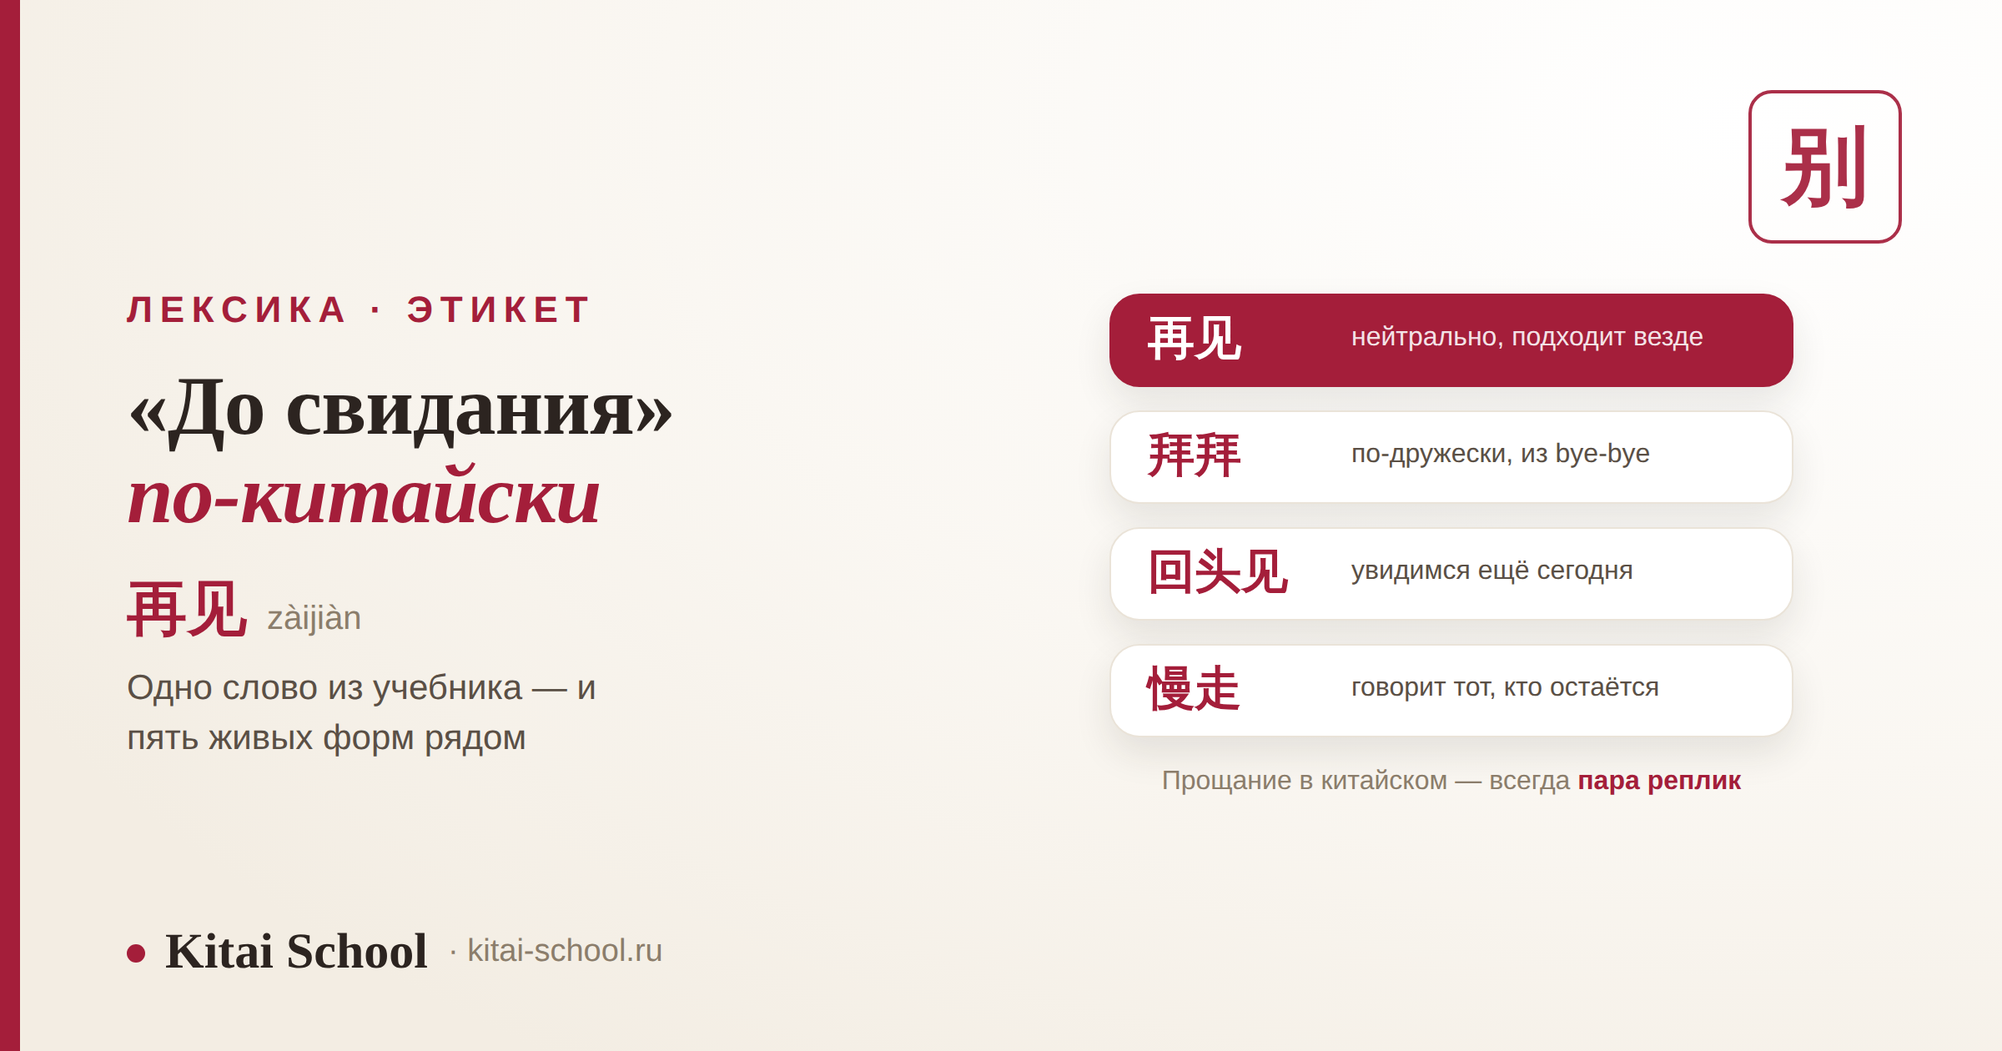
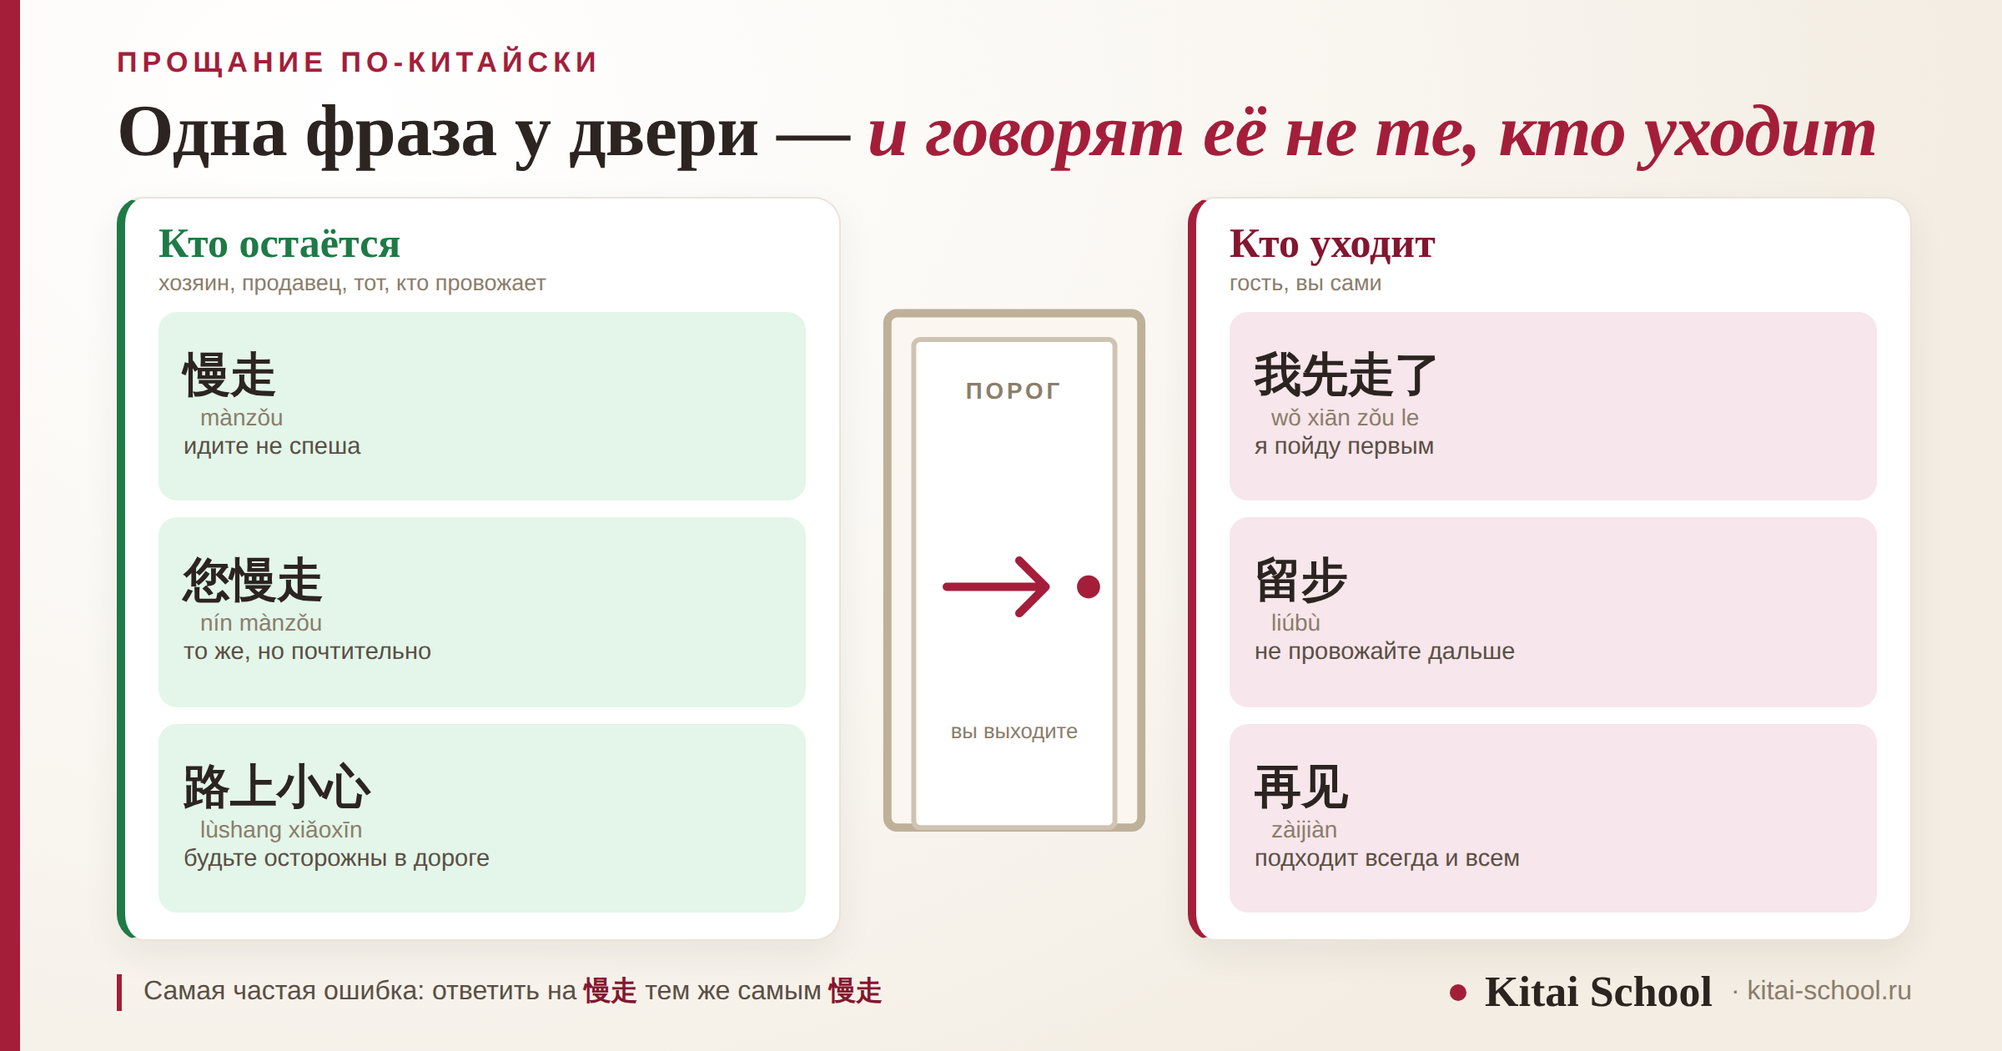
Статья про прощание доделана: две картинки и добор объёма
Было 37 451 знак без картинок. Стало 41 161: обложка «две роли
у двери», инфографика «шкала формальности», новый раздел про
переписку (88, 886, 回聊), шестой вопрос в FAQ и три абзаца добора.
Инфографика 28,1 %, «Из личного опыта» 36,6 %.

Claude-Session: https://claude.ai/code/session_017dS7Wuw6MNB5fnZSr6hVh2

diff --git a/content/blog/do-svidaniya-po-kitajski-sposoby.html b/content/blog/do-svidaniya-po-kitajski-sposoby.html
@@ -87,7 +87,8 @@
         {"@type": "Question", "name": "Как вежливо попрощаться со старшим или с начальником?",
          "acceptedAnswer": {"@type": "Answer", "text": "Добавьте вежливое 您 и обозначьте, что уходите вы, а не выпроваживают вас: 我先走了 (wǒ xiān zǒu le) — «я пойду первым». Уместны 您慢走, если вы остаётесь, и 失陪了 (shīpéi le), если уходите с общей встречи раньше других. Просто 拜拜 в такой ситуации звучит слишком запросто."}},
         {"@type": "Question", "name": "Можно ли пожелать 一路顺风 тому, кто летит самолётом?",
-         "acceptedAnswer": {"@type": "Answer", "text": "Лучше не стоит. 一路顺风 значит «попутного ветра», и для самолёта попутный ветер считается плохой приметой. Универсальное пожелание в дорогу — 一路平安 (yīlù píng'ān), «спокойного пути»: оно подходит для любого транспорта."}}
+         "acceptedAnswer": {"@type": "Answer", "text": "Лучше не стоит. 一路顺风 значит «попутного ветра», и для самолёта попутный ветер считается плохой приметой. Универсальное пожелание в дорогу — 一路平安 (yīlù píng'ān), «спокойного пути»: оно подходит для любого транспорта."}},
+        {"@type": "Question", "name": "Что значит 886 в китайской переписке?", "acceptedAnswer": {"@type": "Answer", "text": "886 — это «пока», записанное цифрами: 8 звучит как 拜, а 6 — как 了, вместе получается 拜拜了. Такие записи пришли из эпохи пейджеров, которые передавали только цифры, и закрепились в чатах. Рядом живут 88 — то же «пока» покороче — и 回聊 (huí liáo), «спишемся позже». Вслух 886 не говорят, и в деловой переписке оно неуместно."}}
       ]
     },
     {
@@ -244,6 +245,8 @@
   </div>
 </div>
 
+<figure class="ks-hero"><img src="assets/do-svidaniya-po-kitajski-sposoby.png" alt="Две роли у двери: тот, кто остаётся, говорит 慢走, 您慢走 и 路上小心, а тот, кто уходит, — 我先走了, 留步 и 再见" width="1200" height="630"></figure>
+
 <p class="passport">Первое прощание, которое учат все, — <b class="han-big">再见</b> (zàijiàn). Слово хорошее, подходит почти всем, и ошибиться с ним трудно. Но если провести в Китае неделю, окажется, что вслух его говорят реже, чем в учебниках: друзья прощаются коротким 拜拜, коллеги — 回头见, а продавец у двери скажет вам 慢走 — и это вовсе не «до свидания». Разберём шесть живых способов попрощаться, посмотрим, кто кому что говорит, и отдельно разберём три фразы, которые легко сказать не к месту.</p>
 
 <div class="tldr">
@@ -265,6 +268,7 @@
 </table>
 </div>
 <p>Логика та же, что в русском «до свидания» или английском see you: прощаясь, мы обещаем встречу. Поэтому 再见 звучит нейтрально-тепло и уместно почти везде — с преподавателем, продавцом, коллегой, соседом.</p>
+<p>Есть и вторая причина, по которой 再见 слышно реже, чем ожидаешь. <b>Прощание в Китае редко бывает одной репликой.</b> Гостя провожают до двери, коллегу — до лифта, иногда до машины, и по дороге фразы повторяются несколько раз: сначала прощание, потом пожелание в дорогу, потом просьба не провожать дальше. Если готовиться только к одному слову, разговор обрывается там, где собеседник ждёт продолжения.</p>
 <p class="note">Отдельная тема — как 再见 <b>произносится</b>: русская запись «цзайцзянь» передаёт звучание лишь приблизительно, а тоны здесь решают многое. Мы разобрали это по слогам в статье <a href="https://kitai-school.ru/article/do-svidaniya-po-kitayski-kak-na-samom-dele-chitaetsya" target="_blank" rel="noopener">«До свидания» по-китайски: как на самом деле читается 再见</a>. Здесь же речь о другом — о выборе формы.</p>
 
 <h2>Шесть способов попрощаться <span class="italic">и когда какой</span></h2>
@@ -285,6 +289,8 @@
 </div>
 <p>Схема с 见 продолжается свободно: <b>一会儿见</b> (yīhuìr jiàn) — «скоро увидимся», <b>下次见</b> (xiàcì jiàn) — «до следующего раза», <b>周一见</b> (zhōu yī jiàn) — «до понедельника». Достаточно поставить перед 见 время — и получится естественное прощание. Кстати, дни недели для таких фраз мы разобрали <a href="https://kitai-school.ru/article/dni-nedeli-v-kitae" target="_blank" rel="noopener">отдельно</a>.</p>
 <p class="note">Про 拜拜 стоит знать две вещи. В словаре оно записано как <b>bàibai</b>, но в живой речи чаще звучит ближе к «бáй-бáй» — с подражанием английскому. И второе: это по-настоящему частотное слово, а не сленг. Его говорят и взрослые, и дети — просто не в официальной обстановке.</p>
+
+<figure class="ks-fig"><img src="assets/do-svidaniya-po-kitajski-sposoby-shkala.png" alt="Шкала из семи прощаний по степени официальности: от 886 и 拜拜 через нейтральное 再见 до 失陪了 и 后会有期" width="1200" height="470"><figcaption>Середина шкалы безопасна всегда: 再见 не бывает неуместным. Осторожности требуют только края.</figcaption></figure>
 
 <h2>慢走 и 留步: <span class="italic">кто кому это говорит</span></h2>
 <p>Вот здесь новички ошибаются чаще всего. <b class="han-big">慢走</b> переводят как «до свидания» — и говорят его, уходя. А это не прощание уходящего, а слова того, кто остаётся.</p>
@@ -328,6 +334,7 @@
   </tbody>
 </table>
 </div>
+<p>Отдельно стоит <b>保持联系</b>. По-русски «будем на связи» часто значит вежливое ничего, и в китайском тоже бывает формулой из приличия. Но после деловой встречи эту фразу нередко понимают буквально: собеседник действительно ждёт сообщения в ближайшие дни. Если продолжения не планируется, мягче закончить на 有空再聊.</p>
 <p>Общее правило простое: со старшим по возрасту или должности лучше обозначить, что инициатива ухода ваша, а не его. Поэтому 我先走了 звучит уважительнее, чем просто 再见, а 拜拜 в такой ситуации выглядит слишком запросто. О том, как вообще устроена вежливость к старшим, мы писали в разборе <a href="https://kitai-school.ru/article/kitayskiy-tiket-obscheniya-uvajenie-k-starshim-ierarhiya-i-ponyatie-lica" target="_blank" rel="noopener">китайского этикета общения</a>, а про переговоры — в <a href="https://kitai-school.ru/article/biznes-tiket-v-kitae-5-pravil-kotorye-reshaut-vse" target="_blank" rel="noopener">бизнес-этикете</a>.</p>
 
 <h2>Три фразы, <span class="italic">которые легко сказать не к месту</span></h2>
@@ -345,6 +352,25 @@
 </div>
 <p class="note">С фразой <b>走好</b> нужна аккуратность, но не паника: <span class="ok">您走好</span> в живой речи — обычное вежливое прощание, особенно на севере. Опасно именно сочетание <span class="bad">一路走好</span>: его говорят на похоронах. Если сомневаетесь — берите нейтральное 一路平安, с ним промахнуться нельзя.</p>
 
+<h2>В переписке: <span class="italic">88, 886 и цифры вместо слов</span></h2>
+<p>В чатах прощаются иначе, чем вслух, и это отдельный пласт, который в учебники почти не попадает.</p>
+
+<div class="table-wrap">
+<table>
+  <caption>Как прощаются в переписке.</caption>
+  <thead><tr><th>Запись</th><th>Как читается</th><th>Что значит</th></tr></thead>
+  <tbody>
+    <tr><td><b>88</b></td><td>bā bā</td><td>по звучанию близко к 拜拜 — «пока»</td></tr>
+    <tr><td><b>886</b></td><td>bā bā liù</td><td><span class="han">拜拜了</span>: 8 звучит как 拜, 6 — как 了</td></tr>
+    <tr><td><b class="han">拜</b></td><td>bài</td><td>совсем короткое «пока», одним знаком</td></tr>
+    <tr><td><b class="han">回聊</b></td><td>huí liáo</td><td>«спишемся позже»</td></tr>
+  </tbody>
+</table>
+</div>
+
+<p>Числовые прощания — наследство эпохи пейджеров: аппарат передавал только цифры, и смысл приходилось упаковывать в них. Отсюда и привычка подбирать числа по созвучию, которая потом перешла в чаты.</p>
+<p class="note">Важная оговорка: <b>в речи вслух 886 не говорят</b> — это чисто письменная форма. И в деловой переписке она тоже неуместна: там прощаются обычными словами.</p>
+
 <h2>Что ответить, <span class="italic">когда прощаются с вами</span></h2>
 <p>Прощание почти всегда парное, и достаточно запомнить несколько связок:</p>
 <div class="table-wrap">
@@ -361,6 +387,7 @@
 </table>
 </div>
 <p>Как видите, чаще всего прощание просто зеркалят — и это абсолютно нормально. Отдельного ответа требует только 慢走: здесь зеркалить нельзя, нужно поблагодарить или сказать 留步.</p>
+<p>Ещё одна мелочь, которая выдаёт новичка: <b>прощание не обрывают на первой реплике</b>. Если собеседник сказал 慢走, а вы ответили и сразу отвернулись, это выглядит резко. Достаточно короткой паузы и второго кивка — в китайском прощании ценится не столько формула, сколько то, что вы её дослушали.</p>
 
 <h2>Частые <span class="italic">вопросы</span> (FAQ)</h2>
 <div class="ksfaq__list">
@@ -383,6 +410,10 @@
   <details class="ksfaq-item">
     <summary class="ksfaq-q"><span>Можно ли пожелать 一路顺风 тому, кто летит самолётом?</span><i class="ksfaq-chev"></i></summary>
     <div class="ksfaq-a"><p>Лучше не стоит. 一路顺风 значит «попутного ветра», и для самолёта попутный ветер считается плохой приметой. Универсальное пожелание в дорогу — 一路平安 (yīlù píng'ān), «спокойного пути»: оно подходит для любого транспорта.</p></div>
+  </details>
+  <details class="ksfaq-item">
+    <summary class="ksfaq-q"><span>Что значит 886 в китайской переписке?</span><i class="ksfaq-chev"></i></summary>
+    <div class="ksfaq-a"><p>886 — это «пока», записанное цифрами: 8 звучит как 拜, а 6 — как 了, вместе получается 拜拜了. Такие записи пришли из эпохи пейджеров, которые передавали только цифры, и закрепились в чатах. Рядом живут 88 — то же «пока» покороче — и 回聊 (huí liáo), «спишемся позже». Вслух 886 не говорят, и в деловой переписке оно неуместно.</p></div>
   </details>
 </div>
 
